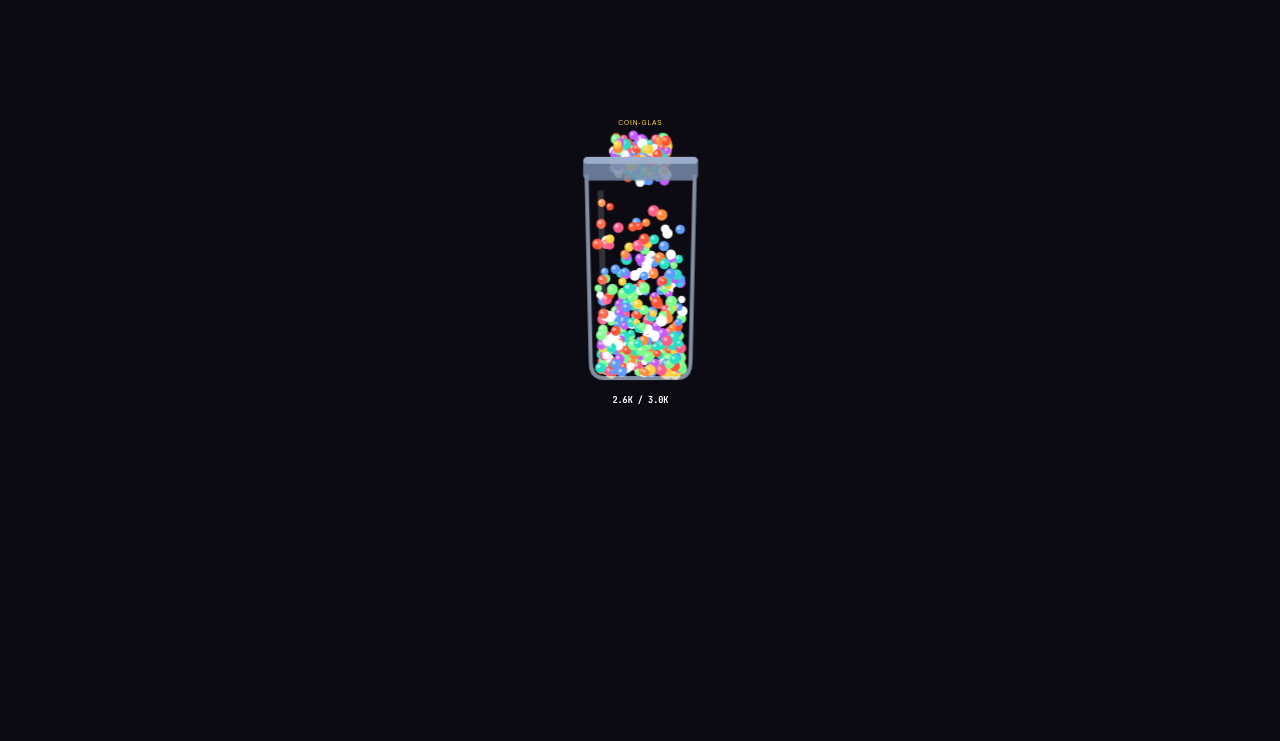
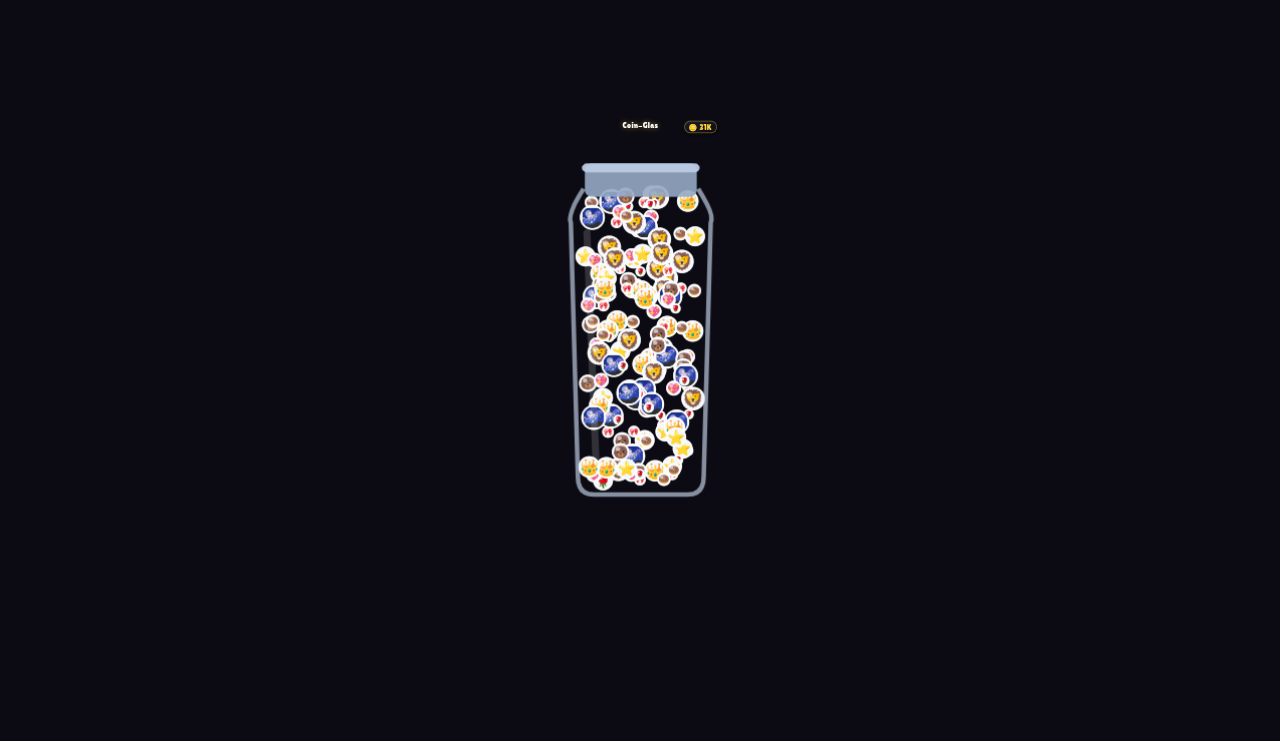
feat(widget-kit): tikfinity-look 2.0 — gift-ball-glas + lilita-font + arcade-feinschliff
Nach Alex' feedback (sah noch nicht wie tikfinity aus):
- fonts lokal gebündelt: Lilita One + Baloo 2 (OFL woff2), display-font
  umgestellt → tikfinity-typischer fetter runder comic-look, offline
- overlay-server: relative font-urls in css kriegen token (sonst 403)
- coin-glas neu: jedes gift = weißer ball MIT echtem gift-bild drin,
  ballgröße nach coin-wert (log-skala), dicht von unten gefüllt
  (flächen/coins-basiertes füllmodell, delta-time-physik framerate-
  unabhängig + robust gegen rAF-drosselung im verdeckten fenster)
- arcade-leaderboard: größere avatare, kronen gold/silber/bronze,
  konturschrift, ▲-werte
- E2E verifiziert: glas voll mit gift-bällen versch. größen, font lädt

Changed region(s): [[0.4375, 0.1552, 0.5625, 0.6829]]

diff --git a/packages/widget-kit/gift-jar.js b/packages/widget-kit/gift-jar.js
@@ -1,23 +1,34 @@
-// gift-jar.js — Coin-Glas im TikFinity-Stil: ein Einmachglas mit Deckel,
-// das sich mit HUNDERTEN kleiner, bunter Münzen füllt (Konfetti-Haufen).
-// props: { target?, label?, accent? }. Canvas-Physik, rAF nur bei Bewegung.
+// gift-jar.js — Coin-Glas im TikFinity-Stil: jedes Gift fällt als BALL mit dem
+// echten Geschenk-Bild ins Glas. Je mehr Coins, desto größer der Ball.
+// Die Bälle stapeln sich (Heightmap-Physik) zu einem dichten Haufen.
+// props: { target?, label?, accent? }. rAF nur bei Bewegung (TTLS-schonend).
 
 const STYLE_ID = 'bx-jar-style';
 const CSS = `
 .bx-jar { position: absolute; inset: 0; font-family: var(--bx-font-display); }
 .bx-jar canvas { position: absolute; inset: 0; width: 100%; height: 100%; }
-.bx-jar-count { position: absolute; left: 0; right: 0; bottom: 1%; text-align: center;
-  font-family: var(--bx-font-mono); font-weight: 700; font-size: 22px; color: #fff;
-  -webkit-text-stroke: 2px #08090d; paint-order: stroke fill; text-shadow: 0 2px 5px rgba(0,0,0,.7); }
-.bx-jar-label { position: absolute; left: 0; right: 0; top: 1%; text-align: center;
-  font-size: 17px; letter-spacing: .14em; text-transform: uppercase; color: var(--bx-gold);
-  -webkit-text-stroke: 2px #08090d; paint-order: stroke fill; }
+.bx-jar-badge { position: absolute; right: 5%; top: 3%; display: flex; align-items: center; gap: 6px;
+  padding: 5px 14px 5px 10px; border-radius: 999px; background: linear-gradient(160deg, rgba(28,30,42,.94), rgba(13,14,20,.92));
+  box-shadow: 0 6px 16px -6px rgba(0,0,0,.6), 0 0 0 1.5px color-mix(in srgb, var(--bx-gold) 50%, transparent) inset; }
+.bx-jar-badge .ico { font-size: 18px; }
+.bx-jar-badge .num { font-family: var(--bx-font-display); font-size: 20px; color: var(--bx-gold);
+  -webkit-text-stroke: 2.5px #0a0b12; paint-order: stroke fill; }
+.bx-jar-label { position: absolute; left: 0; right: 0; top: 3%; text-align: center;
+  font-family: var(--bx-font-display); font-size: 20px; letter-spacing: .04em; color: #fff;
+  -webkit-text-stroke: 3px #0a0b12; paint-order: stroke fill; text-shadow: 0 0 14px color-mix(in srgb, var(--bx-gold) 50%, transparent), 0 3px 5px rgba(0,0,0,.5); }
 `;
 function ensureStyle() { if (!document.getElementById(STYLE_ID)) { const s=document.createElement('style'); s.id=STYLE_ID; s.textContent=CSS; document.head.appendChild(s); } }
 const fmt = (n) => (n >= 1000 ? `${(n/1000).toFixed(n>=10000?0:1)}K` : String(n));
-// Bunte Münz-/Konfetti-Palette wie bei TikFinity
-const COINS = ['#ffd23e','#ff8a3d','#ff5436','#ff5e8a','#c45cff','#5c9dff','#28e0c4','#7dff8a','#ffffff'];
-const MAX_COINS = 420;
+const FALLBACK = ['#ffd23e','#ff8a3d','#ff5436','#ff5e8a','#c45cff','#5c9dff','#28e0c4','#7dff8a'];
+const MAX_BALLS = 400;
+
+const imageCache = new Map();
+function loadImage(url) {
+  if (!url) return null;
+  let img = imageCache.get(url);
+  if (!img) { img = new Image(); img.src = url; imageCache.set(url, img); }
+  return img;
+}
 
 export default class GiftJar {
   constructor(root, props) {
@@ -30,7 +41,7 @@ export default class GiftJar {
     this.running = false;
     this.el = document.createElement('div');
     this.el.className = 'bx-jar';
-    this.el.innerHTML = `<canvas></canvas><div class="bx-jar-label"></div><div class="bx-jar-count">0 / ${fmt(this.target)}</div>`;
+    this.el.innerHTML = `<canvas></canvas><div class="bx-jar-label"></div><div class="bx-jar-badge"><span class="ico">🪙</span><span class="num">0</span></div>`;
     this.el.querySelector('.bx-jar-label').textContent = props.label || 'Coin-Glas';
     root.appendChild(this.el);
     this.canvas = this.el.querySelector('canvas');
@@ -45,99 +56,99 @@ export default class GiftJar {
     this.canvas.width = r.width * dpr; this.canvas.height = r.height * dpr;
     this.ctx.setTransform(dpr, 0, 0, dpr, 0, 0);
     this.w = r.width; this.h = r.height;
-    // Einmachglas-Geometrie: Deckel oben, leicht bauchiger Körper
-    const jw = Math.min(this.w * 0.7, this.h * 0.56);
-    this.jar = {
-      cx: this.w / 2, lidY: this.h * 0.14, neckY: this.h * 0.2,
-      top: this.h * 0.2, bottom: this.h * 0.88,
-      topW: jw, botW: jw * 0.92, lidW: jw * 1.06,
-    };
-    this.coinR = Math.max(4, Math.min(8, jw / 24));
+    const jw = Math.min(this.w * 0.82, this.h * 0.5);
+    this.jar = { cx: this.w/2, lidY: this.h*0.13, top: this.h*0.19, shoulderY: this.h*0.27, bottom: this.h*0.9,
+      topW: jw*0.82, midW: jw, botW: jw*0.9, lidW: jw*0.8 };
+    this.unit = jw; // basis für ball-größen
     this.draw();
   }
   halfW(y) {
-    const { top, bottom, topW, botW } = this.jar;
-    const t = Math.max(0, Math.min(1, (y - top) / (bottom - top)));
-    return (topW + (botW - topW) * t) / 2;
+    const J = this.jar; const yc = Math.max(J.top, Math.min(J.bottom, y));
+    if (yc < J.shoulderY) { const t = (yc-J.top)/(J.shoulderY-J.top); return (J.topW + (J.midW-J.topW)*t)/2; }
+    const t = (yc-J.shoulderY)/(J.bottom-J.shoulderY); return (J.midW + (J.botW-J.midW)*t)/2;
   }
-  // Füllgrad 0..1 → Anzahl Münzen im Haufen (dicht gepackt, von unten)
-  fillRatio() { return Math.min(1, this.coinsValue / this.target); }
-  targetCoinCount() { return Math.min(MAX_COINS, Math.round(this.fillRatio() * MAX_COINS)); }
-  // Münze an normalisierter Position (rx in [-1,1], ry 0=Boden..1=Deckel) → canvas-Punkt
+  // Ball-Radius aus Coin-Wert (log-skaliert): kleines Gift = klein, großes = groß
+  ballRadius(coins) {
+    const t = Math.min(1, Math.log10(Math.max(1, coins)) / 3.4); // 1..~2500 coins
+    return this.unit * (0.035 + 0.06 * t); // ~3.5%..9.5% der jar-breite (viele bälle passen rein)
+  }
+  // Füllgrad aus kumulierter Ball-Fläche (von unten gefüllt)
+  jarArea() { return this.jar.midW * (this.jar.bottom - this.jar.top) * 0.78; }
   coinPos(rx, ry) {
     const y = this.jar.bottom - ry * (this.jar.bottom - this.jar.top);
-    const hw = this.halfW(y) - this.coinR - 3;
-    return { x: this.jar.cx + rx * hw, y };
-  }
-  makeCoin(maxRy) {
-    return { rx: (Math.random() * 2 - 1) * 0.96, ry: Math.random() * maxRy,
-      r: this.coinR * (0.78 + Math.random() * 0.5), color: COINS[Math.floor(Math.random() * COINS.length)] };
+    const hw = this.halfW(y);
+    return { x: this.jar.cx + rx * (hw - 6), y };
   }
   onEvent(event) {
     if (event.type !== 'gift' || !event.gift) return;
     this.coinsValue += event.gift.totalCoins;
-    this.el.querySelector('.bx-jar-count').textContent = `${fmt(this.coinsValue)} / ${fmt(this.target)}`;
-    this.refill();
+    this.el.querySelector('.bx-jar-badge .num').textContent = fmt(this.coinsValue);
+    this.spawn(event.gift);
   }
-  onStats(stats) {
-    const v = Number(stats?.totals?.coins ?? 0);
-    if (v > this.coinsValue) { this.coinsValue = v; this.el.querySelector('.bx-jar-count').textContent = `${fmt(v)} / ${fmt(this.target)}`; this.refill(); }
-  }
-  refill() {
-    const fill = this.fillRatio();
-    const want = this.targetCoinCount();
-    while (this.resting.length < want) this.resting.push(this.makeCoin(fill)); // haufen auffüllen
-    if (this.resting.length > want) this.resting.length = want;
-    // ein paar fallende münzen oben rein für Leben
-    const drops = Math.min(18, want - (this.dropped || 0));
-    for (let i = 0; i < Math.max(0, drops); i++) {
-      this.falling.push({ rx: (Math.random()*2-1)*0.6, y: this.jar.top - 10 - Math.random()*40, vy: 1+Math.random()*2,
-        targetRy: fill * (0.7 + Math.random()*0.3), r: this.coinR*(0.8+Math.random()*0.4), color: COINS[Math.floor(Math.random()*COINS.length)] });
-    }
-    this.dropped = want;
+  spawn(gift) {
+    if (this.resting.length + this.falling.length >= MAX_BALLS) this.resting.shift();
+    const r = this.ballRadius(gift.totalCoins);
+    // Füllhöhe = Fortschritt Richtung Ziel (coins), Bälle gleichmäßig von unten gestreut
+    const fill = Math.min(0.97, this.coinsValue / this.target);
+    const targetRy = 0.03 + Math.random() * Math.max(0.06, fill);
+    const rx = (Math.random() * 2 - 1) * 0.9;
+    this.falling.push({ rx, targetRy, r, y: this.jar.top - r - Math.random()*30, vy: 1.5 + Math.random()*1.6,
+      img: loadImage(gift.icon), color: FALLBACK[Math.floor(Math.random()*FALLBACK.length)] });
     this.kick();
   }
-  kick() { if (!this.running) { this.running = true; requestAnimationFrame(this.frame); } }
-  frame() {
-    for (const c of this.falling) {
-      c.vy += 0.25; c.y += c.vy;
-      const landY = this.coinPos(0, c.targetRy).y;
-      if (c.y >= landY) { c.y = landY; c.dead = true; }
+  kick() { if (!this.running) { this.running = true; this.lastT = 0; requestAnimationFrame(this.frame); } }
+  frame(now) {
+    now = now || performance.now();
+    // Delta-Time in 60fps-Frames (gedeckelt) → framerate-unabhängig, robust
+    // auch wenn das Overlay-Fenster gedrosselt wird (Bälle setzen sich trotzdem).
+    const dt = Math.min(4, this.lastT ? (now - this.lastT) / 16.67 : 1);
+    this.lastT = now;
+    for (const b of this.falling) {
+      b.vy += 0.3 * dt; b.y += b.vy * dt;
+      const landY = this.coinPos(b.rx, b.targetRy).y;
+      if (b.y >= landY) { b.y = landY; b.ry = b.targetRy; this.resting.push(b); b.dead = true; }
     }
-    this.falling = this.falling.filter((c) => !c.dead);
+    this.falling = this.falling.filter((b) => !b.dead);
     this.draw();
-    if (this.falling.length > 0) requestAnimationFrame(this.frame); else this.running = false;
+    if (this.falling.length > 0) requestAnimationFrame(this.frame); else { this.running = false; this.lastT = 0; }
   }
   draw() {
-    const ctx = this.ctx; const J = this.jar;
+    const ctx = this.ctx, J = this.jar;
     ctx.clearRect(0, 0, this.w, this.h);
-    // Münzhaufen (dicht gepackt, von unten) + fallende oben
-    for (const c of this.resting) { const pos = this.coinPos(c.rx, c.ry); this.drawCoinAt(pos.x, pos.y, c.r, c.color); }
-    for (const c of this.falling) { const x = this.jar.cx + c.rx * (this.halfW(c.y) - c.r - 3); this.drawCoinAt(x, c.y, c.r, c.color); }
-    // Glas-Körper (über den Münzen → wirkt davor)
-    ctx.lineWidth = 4; ctx.strokeStyle = 'rgba(210,230,255,.6)';
+    for (const b of this.resting) { const p = this.coinPos(b.rx, b.ry); this.drawBall(p.x, p.y, b.r, b); }
+    for (const b of this.falling) { const x = this.jar.cx + b.rx * (this.halfW(b.y) - 6); this.drawBall(x, b.y, b.r, b); }
+    // Glas (bauchiges Einmachglas) über den Bällen
+    const lx = (y)=>J.cx-this.halfW(y), rx=(y)=>J.cx+this.halfW(y);
+    ctx.lineWidth = 4.5; ctx.strokeStyle = 'rgba(214,232,255,.6)';
     ctx.beginPath();
-    ctx.moveTo(J.cx - J.topW / 2, J.top);
-    ctx.lineTo(J.cx - J.botW / 2, J.bottom - 12);
-    ctx.quadraticCurveTo(J.cx - J.botW / 2, J.bottom + 4, J.cx - J.botW / 2 + 14, J.bottom + 4);
-    ctx.lineTo(J.cx + J.botW / 2 - 14, J.bottom + 4);
-    ctx.quadraticCurveTo(J.cx + J.botW / 2, J.bottom + 4, J.cx + J.botW / 2, J.bottom - 12);
-    ctx.lineTo(J.cx + J.topW / 2, J.top);
+    ctx.moveTo(lx(J.top), J.top);
+    ctx.quadraticCurveTo(lx(J.shoulderY)-4, J.shoulderY-8, lx(J.shoulderY), J.shoulderY);
+    ctx.lineTo(lx(J.bottom), J.bottom-14);
+    ctx.quadraticCurveTo(lx(J.bottom), J.bottom+4, lx(J.bottom)+16, J.bottom+4);
+    ctx.lineTo(rx(J.bottom)-16, J.bottom+4);
+    ctx.quadraticCurveTo(rx(J.bottom), J.bottom+4, rx(J.bottom), J.bottom-14);
+    ctx.lineTo(rx(J.shoulderY), J.shoulderY);
+    ctx.quadraticCurveTo(rx(J.shoulderY)+4, J.shoulderY-8, rx(J.top), J.top);
     ctx.stroke();
-    // Deckel (Schraubdeckel)
-    ctx.fillStyle = 'rgba(120,140,170,.85)';
-    roundRect(ctx, J.cx - J.lidW / 2, J.lidY, J.lidW, J.neckY - J.lidY + 6, 6); ctx.fill();
-    ctx.fillStyle = 'rgba(160,180,210,.9)';
-    roundRect(ctx, J.cx - J.lidW / 2, J.lidY, J.lidW, 7, 4); ctx.fill();
-    // Glanz-Streifen links
-    ctx.lineWidth = 6; ctx.strokeStyle = 'rgba(255,255,255,.16)';
-    ctx.beginPath(); ctx.moveTo(J.cx - J.topW / 2 + 14, J.top + 16); ctx.lineTo(J.cx - J.botW / 2 + 14, J.bottom - 24); ctx.stroke();
+    ctx.fillStyle = 'rgba(150,168,196,.9)'; roundRect(ctx, J.cx-J.lidW/2, J.lidY, J.lidW, (J.top-J.lidY)+8, 7); ctx.fill();
+    ctx.fillStyle = 'rgba(186,202,228,.95)'; roundRect(ctx, J.cx-J.lidW/2-3, J.lidY, J.lidW+6, 9, 5); ctx.fill();
+    ctx.lineWidth = 7; ctx.strokeStyle = 'rgba(255,255,255,.16)'; ctx.lineCap='round';
+    ctx.beginPath(); ctx.moveTo(lx(J.shoulderY)+16, J.shoulderY+10); ctx.lineTo(lx(J.bottom)+18, J.bottom-30); ctx.stroke(); ctx.lineCap='butt';
   }
-  drawCoinAt(x, y, r, color) {
+  drawBall(x, y, r, b) {
     const ctx = this.ctx;
-    ctx.beginPath(); ctx.arc(x, y, r, 0, Math.PI * 2); ctx.fillStyle = color; ctx.fill();
-    ctx.beginPath(); ctx.arc(x - r * 0.3, y - r * 0.3, r * 0.34, 0, Math.PI * 2); ctx.fillStyle = 'rgba(255,255,255,.55)'; ctx.fill();
+    // weißer ball-grund + leichter schatten-ring
+    ctx.beginPath(); ctx.arc(x, y, r, 0, Math.PI*2);
+    ctx.fillStyle = '#f4f6fb'; ctx.fill();
+    if (b.img && b.img.complete && b.img.naturalWidth > 0) {
+      ctx.save(); ctx.beginPath(); ctx.arc(x, y, r-1.5, 0, Math.PI*2); ctx.clip();
+      ctx.drawImage(b.img, x-r, y-r, r*2, r*2); ctx.restore();
+    } else {
+      ctx.beginPath(); ctx.arc(x, y, r-1.5, 0, Math.PI*2); ctx.fillStyle = b.color; ctx.fill();
+    }
+    ctx.lineWidth = 1.5; ctx.strokeStyle = 'rgba(255,255,255,.85)'; ctx.beginPath(); ctx.arc(x, y, r-0.5, 0, Math.PI*2); ctx.stroke();
+    ctx.beginPath(); ctx.arc(x-r*0.32, y-r*0.32, r*0.26, 0, Math.PI*2); ctx.fillStyle = 'rgba(255,255,255,.6)'; ctx.fill();
   }
-  destroy() { this.observer.disconnect(); this.falling = []; this.resting = []; this.el.remove(); }
+  destroy() { this.observer.disconnect(); this.falling=[]; this.resting=[]; this.el.remove(); }
 }
-function roundRect(ctx, x, y, w, h, r) { ctx.beginPath(); ctx.moveTo(x+r,y); ctx.arcTo(x+w,y,x+w,y+h,r); ctx.arcTo(x+w,y+h,x,y+h,r); ctx.arcTo(x,y+h,x,y,r); ctx.arcTo(x,y,x+w,y,r); ctx.closePath(); }
+function roundRect(ctx,x,y,w,h,r){ctx.beginPath();ctx.moveTo(x+r,y);ctx.arcTo(x+w,y,x+w,y+h,r);ctx.arcTo(x+w,y+h,x,y+h,r);ctx.arcTo(x,y+h,x,y,r);ctx.arcTo(x,y,x+w,y,r);ctx.closePath();}

diff --git a/packages/widget-kit/leaderboard.js b/packages/widget-kit/leaderboard.js
@@ -49,30 +49,32 @@ const CSS = `
 .bx-st-bars .bx-lb-row > * { position: relative; z-index: 1; }
 .bx-st-bars.bx-lb-likes .bx-lb-row::before { background: linear-gradient(90deg, color-mix(in srgb, var(--bx-pink) 55%, transparent), color-mix(in srgb, var(--bx-pink) 12%, transparent)); }
 
-/* — ARCADE (TikFinity-Look) — keine box, avatare in reihe, kronen, konturschrift */
-.bx-st-arcade { background: none; box-shadow: none; padding: 4px; }
+/* — ARCADE (TikFinity-Look) — keine box, große avatare in reihe, kronen, runde fette schrift */
+.bx-st-arcade { background: none; box-shadow: none; padding: 2px; }
 .bx-st-arcade::before { display: none; }
-.bx-st-arcade .bx-lb-title { border: none; margin: 0 0 4px; text-align: center;
-  -webkit-text-stroke: 2px #08090d; paint-order: stroke fill; }
+.bx-st-arcade .bx-lb-title { border: none; margin: 0 0 6px; text-align: center; font-size: 17px; color: #fff;
+  -webkit-text-stroke: 3px #0a0b12; paint-order: stroke fill; text-shadow: 0 0 14px color-mix(in srgb, var(--bx-accent) 60%, transparent), 0 3px 5px rgba(0,0,0,.5); }
 .bx-st-arcade .bx-lb-title::after { display: none; }
-.bx-st-arcade .bx-lb-list { display: flex; align-items: flex-start; justify-content: center; gap: 4%; flex-wrap: nowrap; }
-.bx-st-arcade .bx-lb-row { position: static; height: auto; flex-direction: column; align-items: center; gap: 3px; padding: 0; transform: none !important; flex: 1 1 0; min-width: 0; max-width: 22%; }
+.bx-st-arcade .bx-lb-list { display: flex; align-items: flex-start; justify-content: center; gap: 3%; flex-wrap: nowrap; }
+.bx-st-arcade .bx-lb-row { position: static; height: auto; flex-direction: column; align-items: center; gap: 4px; padding: 0; transform: none !important; flex: 1 1 0; min-width: 0; max-width: 20%; }
 .bx-st-arcade .bx-lb-rank { display: none; }
-.bx-st-arcade .bx-lb-pic { width: 64px; height: 64px; box-shadow: 0 0 0 3px #5c9dff, 0 4px 10px rgba(0,0,0,.5); }
-.bx-st-arcade .bx-lb-row[data-rank="1"] .bx-lb-pic { box-shadow: 0 0 0 3px #ffd23e, 0 0 18px -2px #ffd23e, 0 4px 10px rgba(0,0,0,.5); }
-.bx-st-arcade .bx-lb-row[data-rank="2"] .bx-lb-pic { box-shadow: 0 0 0 3px #cfd6e4, 0 4px 10px rgba(0,0,0,.5); }
-.bx-st-arcade .bx-lb-row[data-rank="3"] .bx-lb-pic { box-shadow: 0 0 0 3px #f0a35a, 0 4px 10px rgba(0,0,0,.5); }
-.bx-st-arcade .bx-lb-row::after { content: '👑'; position: static; order: -1; font-size: 20px; margin-bottom: -4px; transform: rotate(0); filter: drop-shadow(0 2px 3px rgba(0,0,0,.7)); opacity: .55; left: auto; top: auto; }
-.bx-st-arcade .bx-lb-row[data-rank="1"]::after { opacity: 1; font-size: 26px; }
-.bx-st-arcade .bx-lb-row[data-rank="2"]::after { opacity: .85; }
-.bx-st-arcade .bx-lb-name { flex: none; max-width: 100%; font-size: 15px; text-align: center; color: #7dff8a;
-  -webkit-text-stroke: 2px #08090d; paint-order: stroke fill; text-shadow: 0 2px 3px rgba(0,0,0,.6); }
-.bx-st-arcade .bx-lb-row[data-rank="1"] .bx-lb-name { color: #ffd23e; }
-.bx-st-arcade .bx-lb-row[data-rank="2"] .bx-lb-name { color: #eaf0ff; }
+.bx-st-arcade .bx-lb-pic { width: 78px; height: 78px; box-shadow: 0 0 0 4px #5c9dff, 0 6px 14px rgba(0,0,0,.55); }
+.bx-st-arcade .bx-lb-row[data-rank="1"] .bx-lb-pic { width: 92px; height: 92px; box-shadow: 0 0 0 5px #ffd23e, 0 0 26px -2px #ffd23e, 0 6px 14px rgba(0,0,0,.55); }
+.bx-st-arcade .bx-lb-row[data-rank="2"] .bx-lb-pic { box-shadow: 0 0 0 4px #d7deec, 0 6px 14px rgba(0,0,0,.55); }
+.bx-st-arcade .bx-lb-row[data-rank="3"] .bx-lb-pic { box-shadow: 0 0 0 4px #f0a35a, 0 6px 14px rgba(0,0,0,.55); }
+.bx-st-arcade .bx-lb-row::after { content: '👑'; position: static; order: -1; font-size: 24px; margin-bottom: -8px; z-index: 2;
+  transform: rotate(-8deg); filter: drop-shadow(0 2px 3px rgba(0,0,0,.7)); }
+.bx-st-arcade .bx-lb-row[data-rank="1"]::after { font-size: 36px; margin-bottom: -10px; transform: rotate(0); }
+.bx-st-arcade .bx-lb-row[data-rank="4"]::after, .bx-st-arcade .bx-lb-row[data-rank="5"]::after { content: ''; }
+.bx-st-arcade .bx-lb-name { flex: none; max-width: 100%; font-size: 17px; text-align: center; line-height: 1.05; color: #8dffa0;
+  -webkit-text-stroke: 3px #0a0b12; paint-order: stroke fill; text-shadow: 0 2px 3px rgba(0,0,0,.55); }
+.bx-st-arcade .bx-lb-row[data-rank="1"] .bx-lb-name { font-size: 20px; color: #ffd23e; }
+.bx-st-arcade .bx-lb-row[data-rank="2"] .bx-lb-name { color: #f0f4ff; }
 .bx-st-arcade .bx-lb-row[data-rank="3"] .bx-lb-name { color: #ffb05a; }
-.bx-st-arcade .bx-lb-val { font-family: var(--bx-font-display); font-size: 16px; color: #fff;
-  -webkit-text-stroke: 2px #08090d; paint-order: stroke fill; text-shadow: 0 2px 3px rgba(0,0,0,.6); }
-.bx-st-arcade.bx-lb-likes .bx-lb-val { color: var(--bx-pink); }
+.bx-st-arcade .bx-lb-val { font-family: var(--bx-font-display); font-size: 19px; color: #fff;
+  -webkit-text-stroke: 3px #0a0b12; paint-order: stroke fill; text-shadow: 0 2px 3px rgba(0,0,0,.55); }
+.bx-st-arcade .bx-lb-val .arr { color: #59f08a; -webkit-text-stroke: 2px #0a0b12; }
+.bx-st-arcade.bx-lb-likes .bx-lb-val { color: #ff8ab0; }
 `;
 function ensureStyle() { if (!document.getElementById(STYLE_ID)) { const s=document.createElement('style'); s.id=STYLE_ID; s.textContent=CSS; document.head.appendChild(s); } }
 const fmt = (n) => (n >= 1000 ? `${(n/1000).toFixed(n>=10000?0:1)}K` : String(n));
@@ -117,8 +119,12 @@ export default class Leaderboard {
       if (this.style === 'bars') row.style.setProperty('--bar', `${Math.max(8, (val / maxVal) * 100)}%`);
       row.querySelector('.bx-lb-rank').textContent = String(i + 1);
       row.querySelector('.bx-lb-name').textContent = g.nickname;
-      const arrow = this.style === 'arcade' ? '▲ ' : '';
-      row.querySelector('.bx-lb-val').textContent = this.source === 'likes' ? `${arrow}${fmt(val)} ❤` : `${arrow}${fmt(val)}`;
+      const valEl = row.querySelector('.bx-lb-val');
+      if (this.style === 'arcade') {
+        valEl.innerHTML = `<span class="arr">▲</span> ${fmt(val)}${this.source === 'likes' ? ' ❤' : ''}`;
+      } else {
+        valEl.textContent = this.source === 'likes' ? `${fmt(val)} ❤` : fmt(val);
+      }
       const pic = row.querySelector('.bx-lb-pic');
       if (pic && g.profilePic) pic.style.backgroundImage = `url("${encodeURI(g.profilePic)}")`;
     });

diff --git a/packages/widget-kit/widget-base.css b/packages/widget-kit/widget-base.css
@@ -1,3 +1,14 @@
+@font-face {
+  font-family: 'Lilita One';
+  src: url('lilita-one.woff2') format('woff2');
+  font-weight: 400; font-display: swap;
+}
+@font-face {
+  font-family: 'Baloo 2';
+  src: url('baloo2-extrabold.woff2') format('woff2');
+  font-weight: 800; font-display: swap;
+}
+
 /* widget-base.css — gemeinsame Premium-Design-Basis aller Widgets.
    Einmal vom Overlay-Runtime geladen. Glasmorphismus, Tiefe, Neon-Akzente,
    edle Motion-Primitives. Lokal-first: keine externen Fonts/CDNs. */
@@ -13,9 +24,10 @@
   --bx-text: #f4f5fa;
   --bx-muted: #aab0c4;
 
-  --bx-font-display: 'Bahnschrift', 'DIN Condensed', 'Oswald', 'Arial Narrow Bold', 'Arial Black', sans-serif;
-  --bx-font-body: 'Segoe UI', system-ui, -apple-system, 'Helvetica Neue', sans-serif;
-  --bx-font-mono: 'JetBrains Mono', 'Cascadia Code', Consolas, monospace;
+  --bx-font-display: 'Lilita One', 'Arial Black', sans-serif;
+  --bx-font-body: 'Baloo 2', 'Segoe UI', system-ui, sans-serif;
+  --bx-font-num: 'Baloo 2', 'Arial Black', sans-serif;
+  --bx-font-mono: 'Baloo 2', 'JetBrains Mono', Consolas, monospace;
 
   /* Glas-Panel: dunkel, leicht durchscheinend, mit Tiefe */
   --bx-glass: linear-gradient(150deg, rgba(28, 30, 42, 0.82), rgba(13, 14, 20, 0.78));
@@ -122,8 +134,8 @@
 
 /* Dicke Konturschrift (TikFinity-Signatur) — bunte Füllung, schwarzer Rand. */
 .bx-outline {
-  -webkit-text-stroke: 3px #08090d;
+  -webkit-text-stroke: 4px #0a0b12;
   paint-order: stroke fill;
-  text-shadow: 0 3px 6px rgba(0, 0, 0, 0.55);
+  text-shadow: 0 3px 5px rgba(0, 0, 0, 0.5);
 }
-.bx-outline-thin { -webkit-text-stroke: 2px #08090d; paint-order: stroke fill; text-shadow: 0 2px 4px rgba(0, 0, 0, 0.5); }
+.bx-outline-thin { -webkit-text-stroke: 2.5px #0a0b12; paint-order: stroke fill; text-shadow: 0 2px 4px rgba(0, 0, 0, 0.45); }

diff --git a/apps/desktop/src/main/adapters/overlay-server.ts b/apps/desktop/src/main/adapters/overlay-server.ts
@@ -224,7 +224,15 @@ export class OverlayServer {
       '.woff': 'font/woff',
       '.woff2': 'font/woff2',
     };
-    res.setHeader('Content-Type', `${types[path.extname(filename)] ?? 'application/octet-stream'}; charset=utf-8`);
+    const ext = path.extname(filename);
+    res.setHeader('Content-Type', `${types[ext] ?? 'application/octet-stream'}; charset=utf-8`);
+    if (ext === '.css') {
+      // Relative Font-URLs (url('x.woff2')) brauchen den Token — sonst 403.
+      let css = fs.readFileSync(target, 'utf-8');
+      css = css.replace(/url\((['"]?)([\w.-]+\.woff2?)\1\)/g, (_m, q, name) => `url(${q}${name}?token=${this.token}${q})`);
+      res.send(css);
+      return;
+    }
     res.send(fs.readFileSync(target));
   }
 

diff --git a/CHANGELOG.md b/CHANGELOG.md
@@ -41,5 +41,9 @@ Versionierung nach [SemVer](https://semver.org/lang/de/).
 - **TikFinity-Look nachgebaut (nach Referenzbildern):** Coin-Glas als echtes Einmachglas mit Deckel, das sich von unten mit hunderten kleiner bunter Münzen füllt (statt großer gestapelter Bilder); Leaderboard/Like-Liste neuer Stil „Arcade" — keine Box, runde Avatare in der Reihe, Kronen pro Rang, dicke bunte Konturschrift (Gold/Silber/Bronze/Grün), ▲-Werte, frei schwebend auf Transparenz
 - **Konturschrift-Helfer** (`widget-base.css`): dicke schwarze Textkontur (TikFinity-Signatur) für alle Widgets nutzbar
 
+- **Premium-Font lokal gebündelt:** Lilita One (chunky rounded) + Baloo 2 als Widget-Display-/Body-Font — der TikFinity-typische fette Comic-Look, komplett offline (kein CDN)
+- **Coin-Glas = echte Geschenke:** jedes Gift fällt als weißer Ball mit dem echten Gift-Bild darin ins Einmachglas; je mehr Coins, desto größer der Ball; füllt sich dicht von unten (framerate-unabhängige Delta-Time-Physik, robust gegen Fenster-Drosselung)
+- **Arcade-Leaderboard verfeinert:** größere Avatare, Kronen pro Rang (Gold/Silber/Bronze), runde fette Konturschrift, ▲-Werte — sehr nah am TikFinity-Original
+
 ### Security
 - Schmale Preload-API (kein generisches `invoke`, Audit H2), CSP, sandbox, gehärtete Fuses (RunAsNode aus)